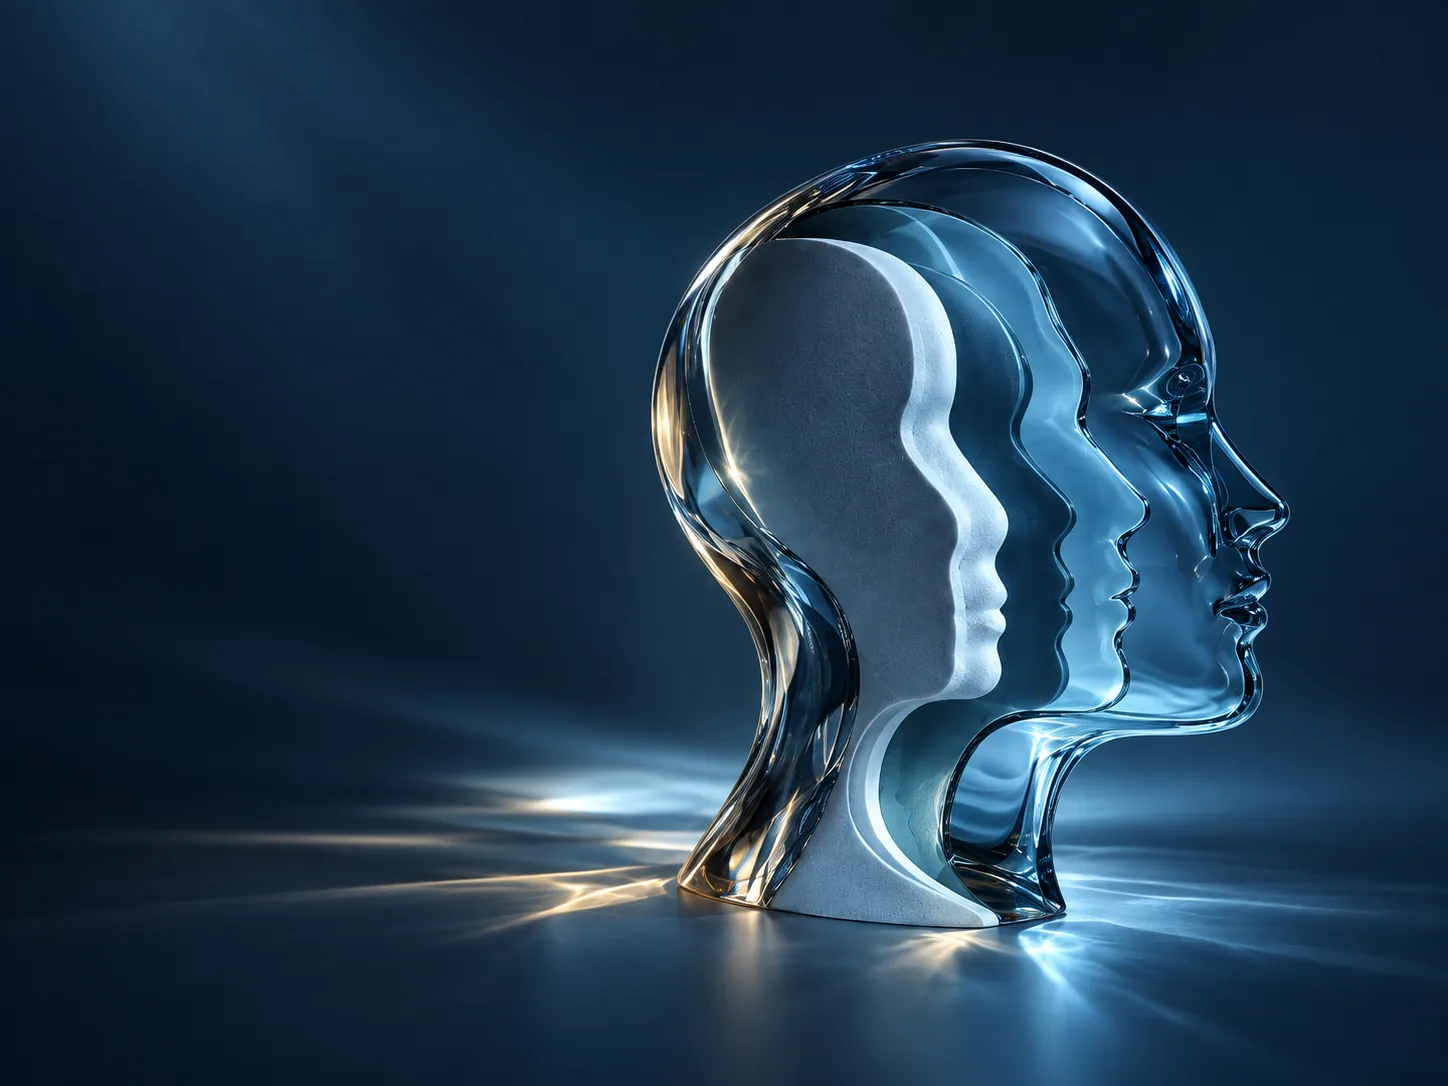
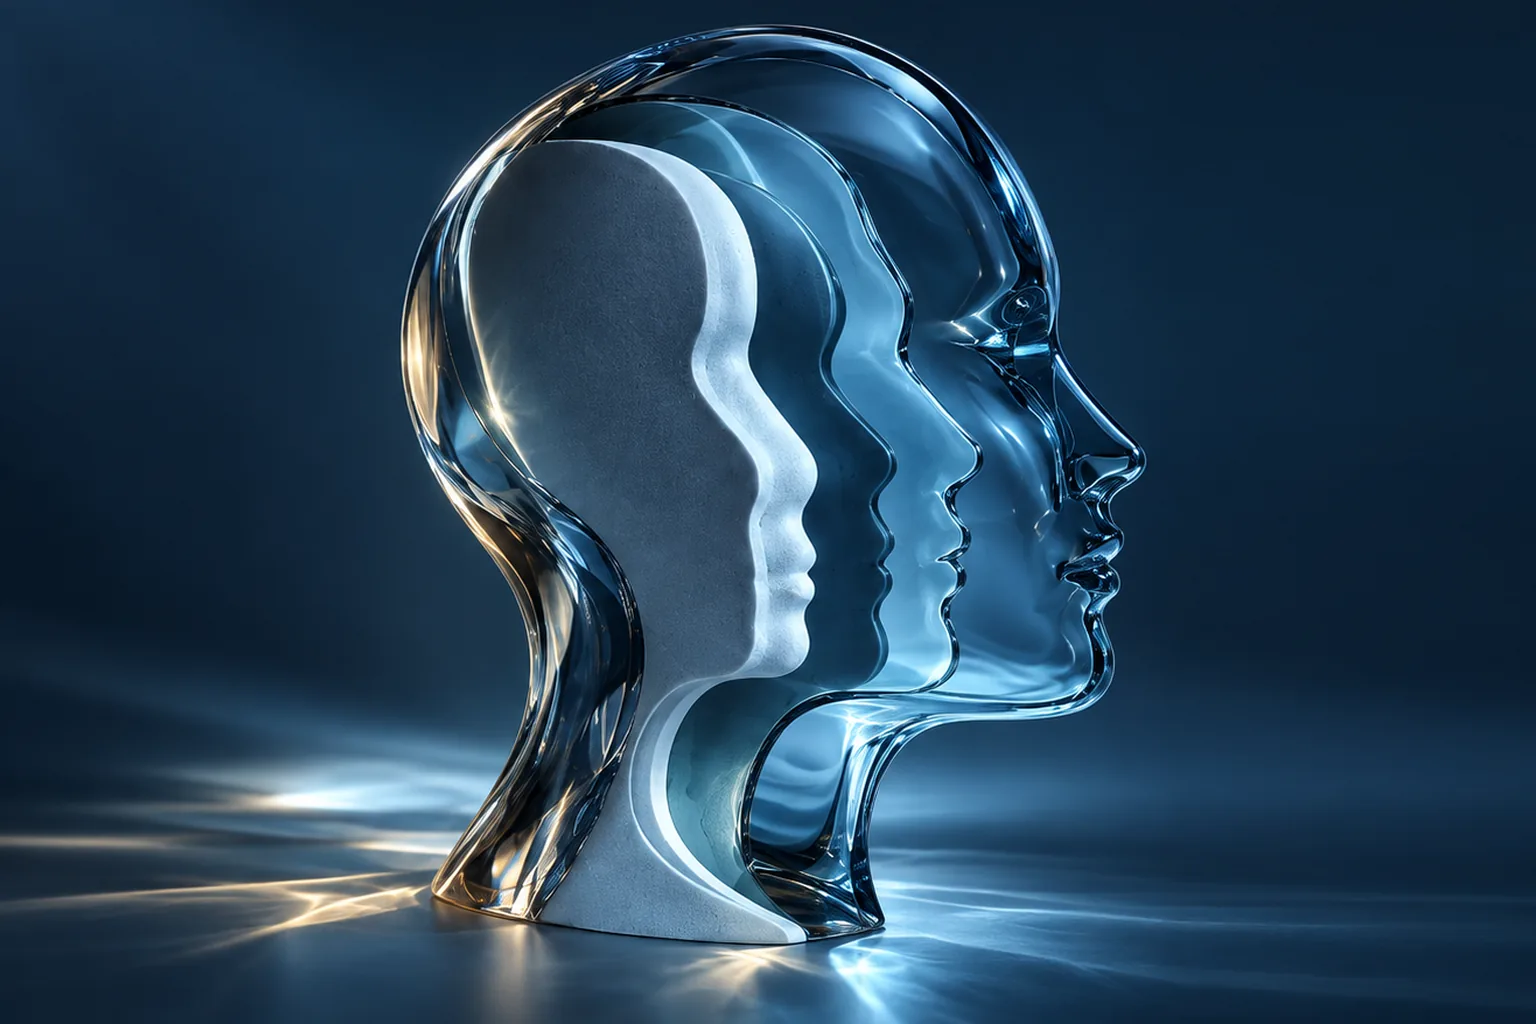
fix: place the dark-mode head where the light one is

diff --git a/frontend/src/mind-section.css b/frontend/src/mind-section.css
@@ -33,7 +33,9 @@
 .landing-mind-art img { display: block; width: 100%; height: 100%; object-fit: cover; object-position: 60% center; }
 /* opacity, not display:none: a hidden lazy image is never fetched, so the
    first switch to dark would show an empty frame while it downloads. */
-.landing-mind-art .landing-mind-art-dark { position: absolute; inset: 0; object-position: 75% center; opacity: 0; transition: opacity .3s ease; }
+/* Same 1536x1024 frame as the light image, head in the same place, so the two
+   share one object-position and the head does not jump when the theme flips. */
+.landing-mind-art .landing-mind-art-dark { position: absolute; inset: 0; opacity: 0; transition: opacity .3s ease; }
 [data-theme='dark'] .landing-mind-art .landing-mind-art-dark { opacity: 1; }
 .landing-mind-facts { grid-column: 1 / -1; margin: 0; display: grid; grid-template-columns: repeat(3, minmax(0, 1fr)); padding: 26px 40px; border-top: 1px solid var(--mind-line); }
 .landing-mind-facts > div { display: flex; align-items: center; justify-content: center; gap: 18px; }

diff --git a/frontend/src/MindSection.jsx b/frontend/src/MindSection.jsx
@@ -52,7 +52,7 @@ export default function MindSection({ language }) {
           <figure className="landing-mind-art">
             <img src="/landing/mind-self-discovery.webp" alt={copy.art} width="1536" height="1024" loading="lazy" decoding="async" />
             {/* Dark-mode twin, stacked on top and faded in by CSS. Both load with the card, so switching theme never waits on a download. */}
-            <img className="landing-mind-art-dark" src="/landing/mind-self-discovery-dark.webp" alt="" aria-hidden="true" width="1448" height="1086" loading="lazy" decoding="async" />
+            <img className="landing-mind-art-dark" src="/landing/mind-self-discovery-dark.webp" alt="" aria-hidden="true" width="1536" height="1024" loading="lazy" decoding="async" />
           </figure>
           <dl className="landing-mind-facts">
             <div><dt>15</dt><dd>{copy.time}</dd></div>
